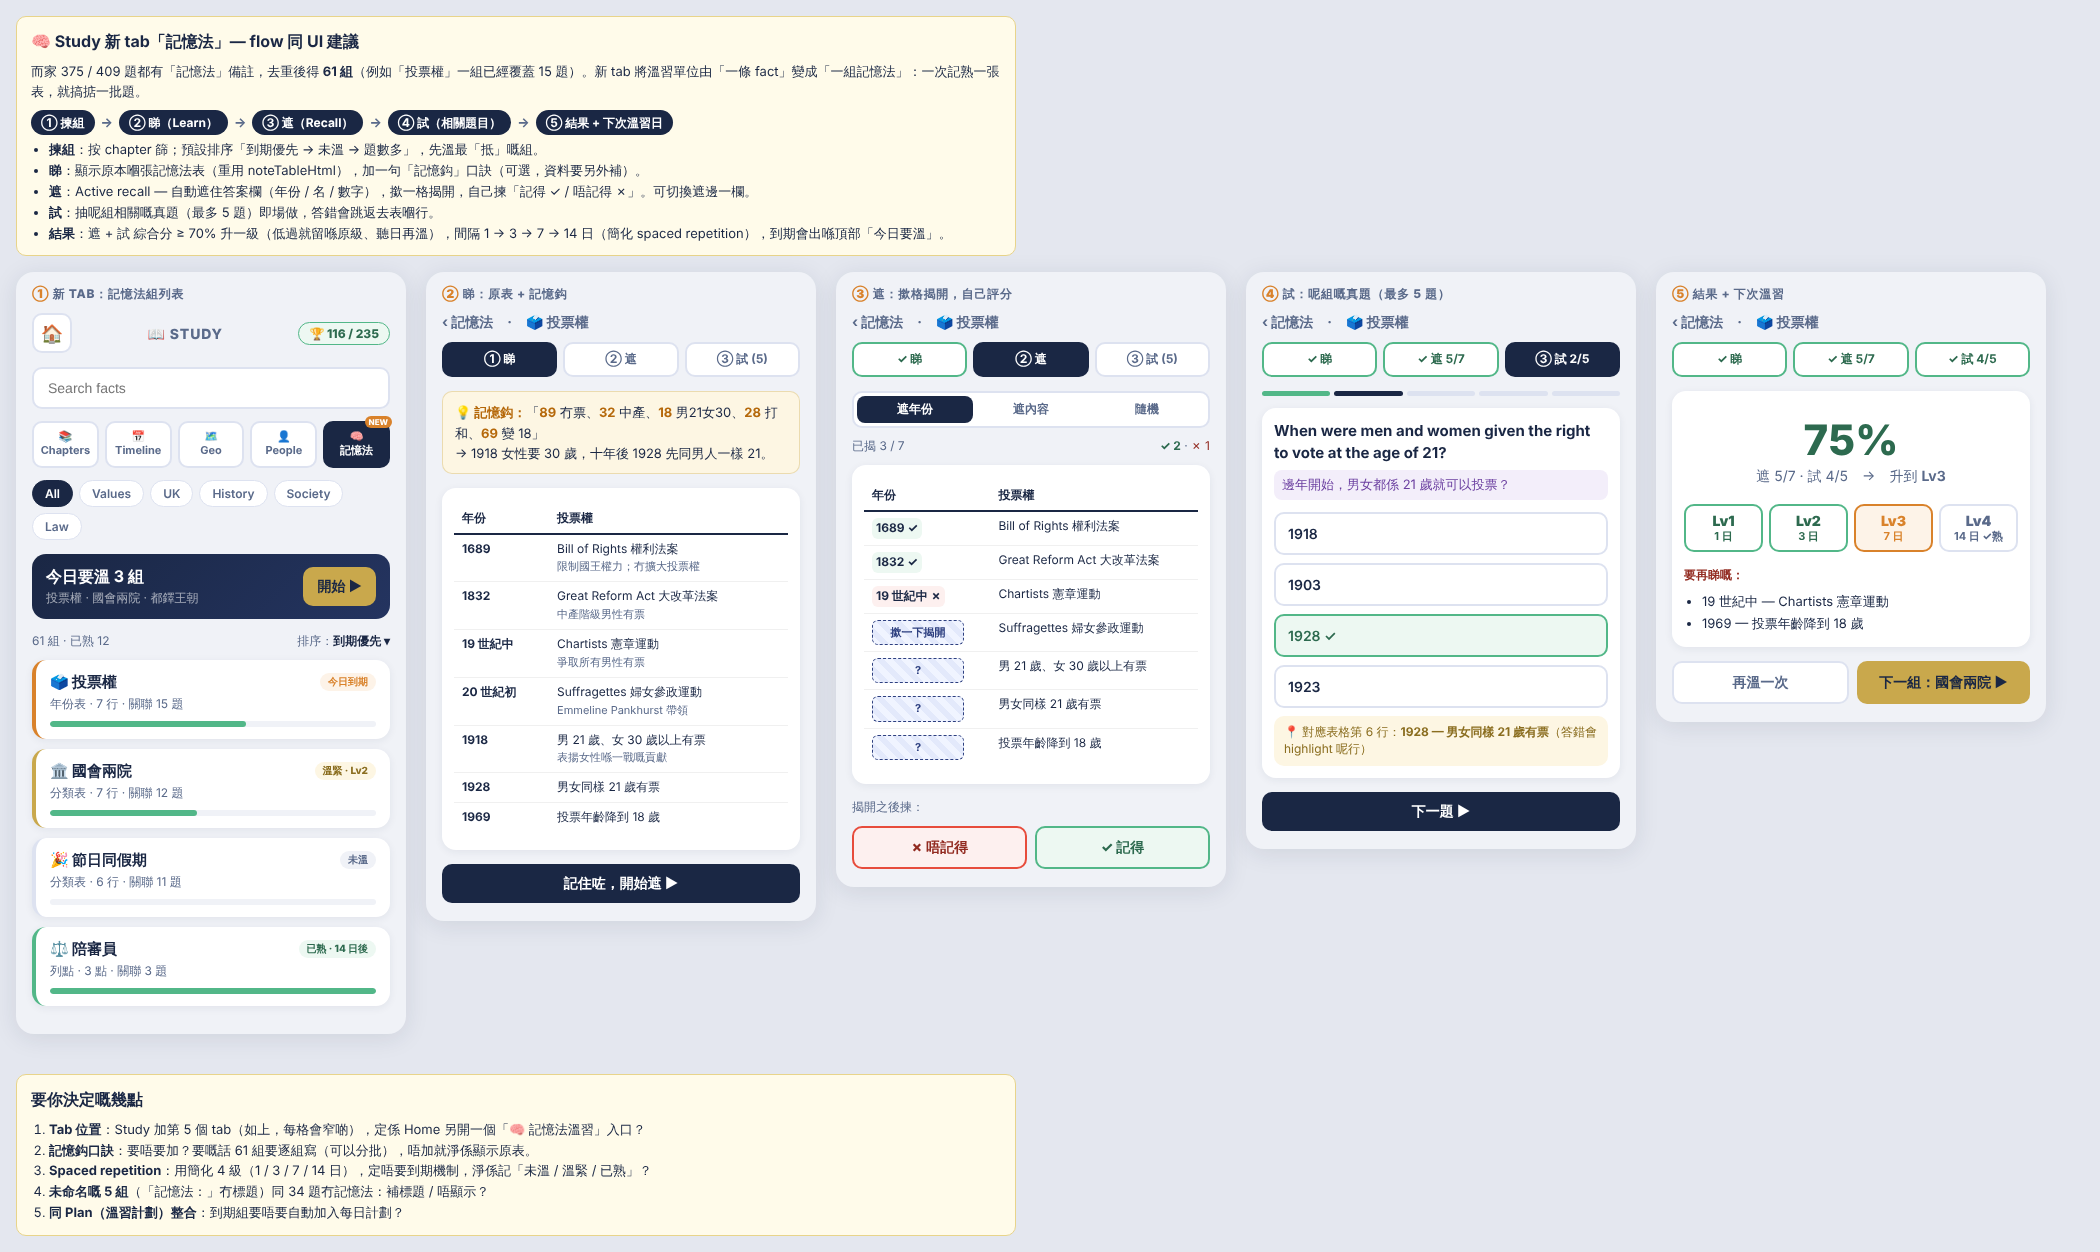
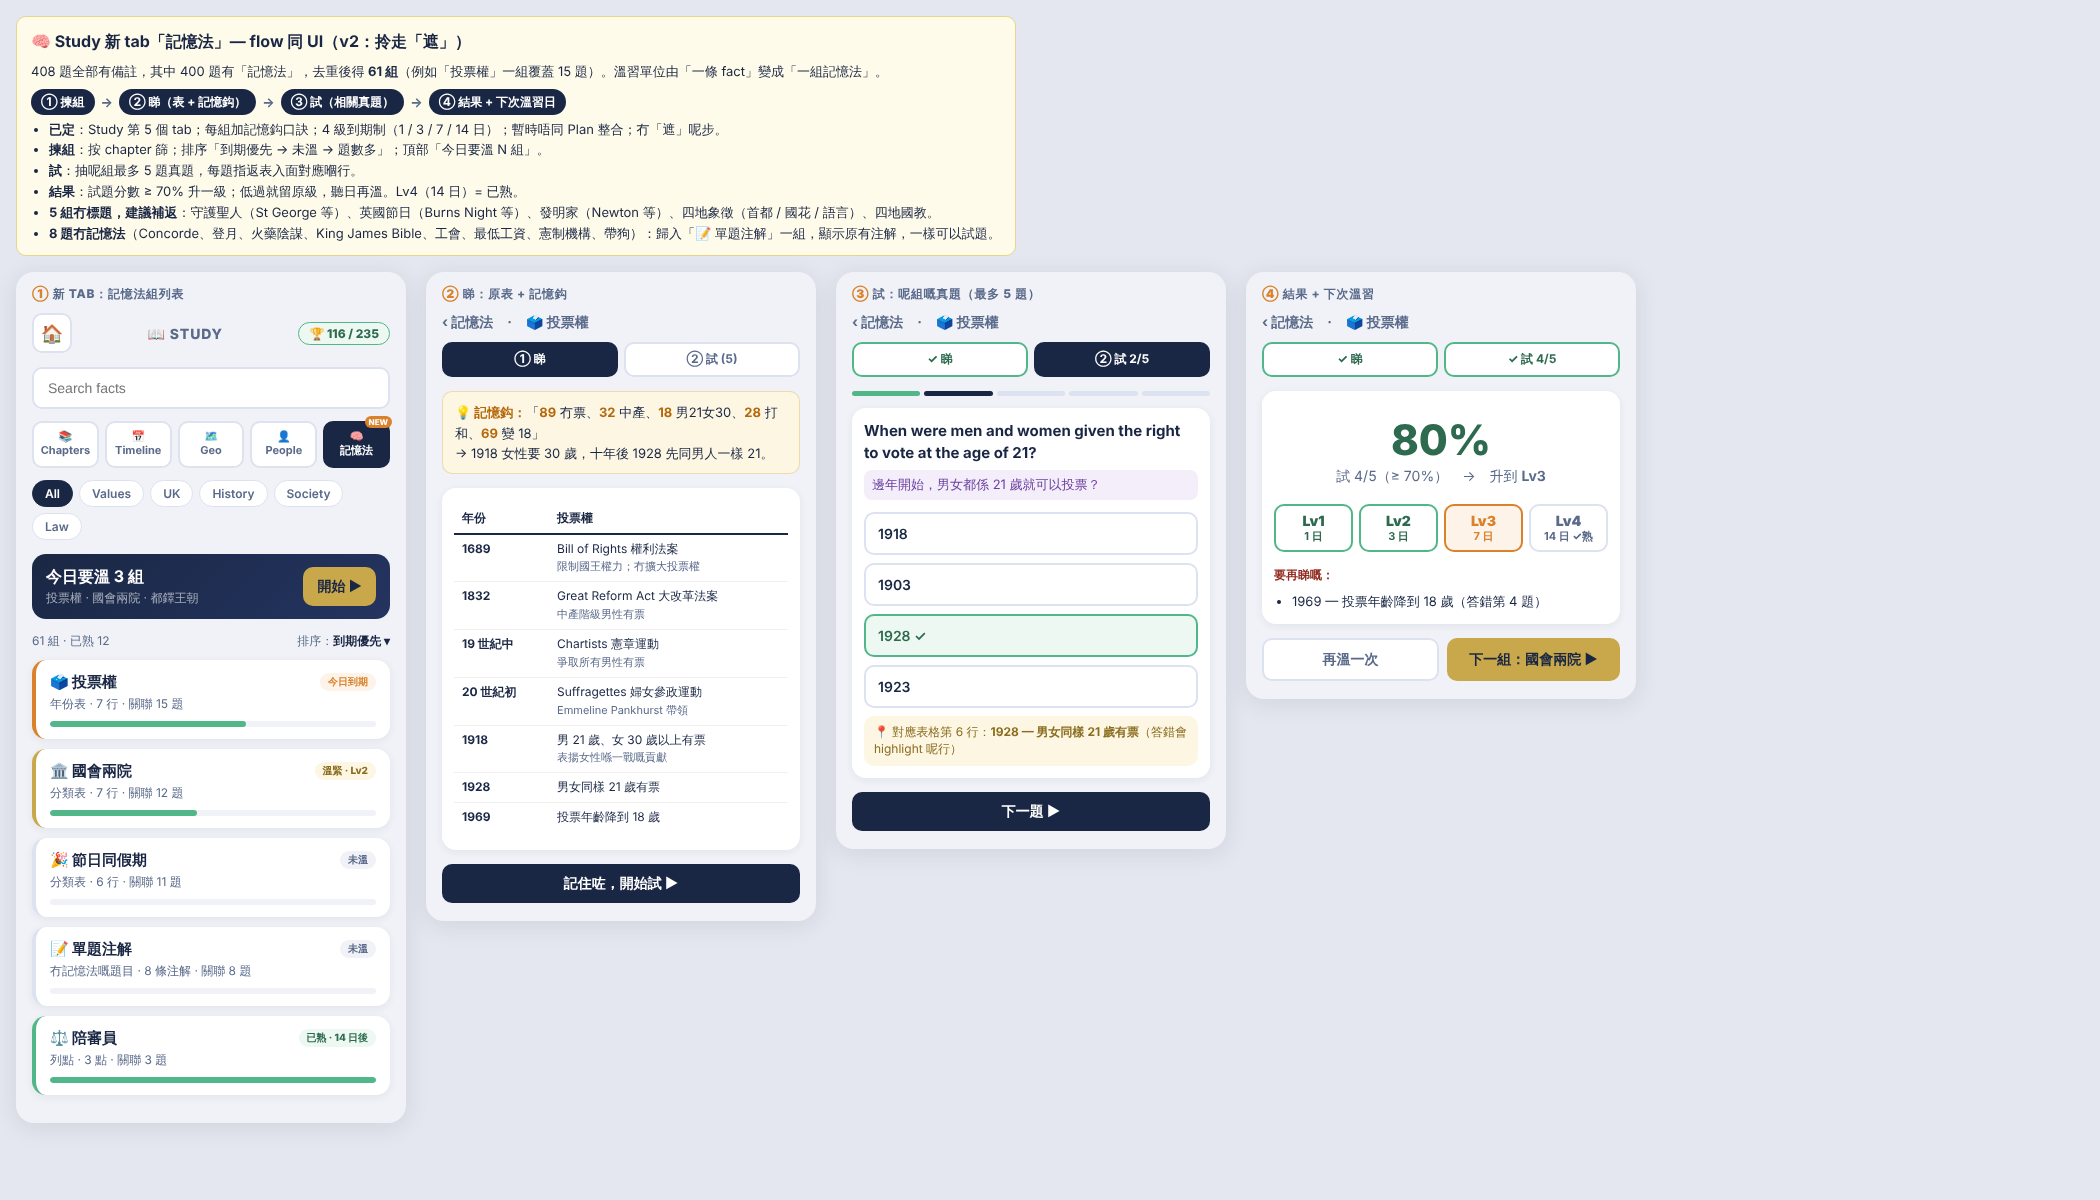
docs: memory study mockup v2 (drop recall step, apply decisions)
Claude-Session: https://claude.ai/code/session_014xLpA8rU1dnqgrrpkyMFYP

Changed region(s): [[0.0, 0.0, 0.9905, 0.9867]]

diff --git a/mockups/memo-study.html b/mockups/memo-study.html
@@ -62,7 +62,7 @@
 
   /* detail */
   .mk-back { font-size: var(--fs-md); font-weight: 700; color: var(--text-muted); margin-bottom: var(--space-5); }
-  .mk-steps { display: grid; grid-template-columns: repeat(3, 1fr); gap: var(--space-3); margin-bottom: var(--space-7); }
+  .mk-steps { display: grid; grid-template-columns: repeat(2, 1fr); gap: var(--space-3); margin-bottom: var(--space-7); }
   .mk-step { text-align: center; font-size: var(--fs-sm); font-weight: 700; color: var(--text-muted); background: var(--card); border: 2px solid var(--border); border-radius: var(--radius-md); padding: 7px 2px; }
   .mk-step.on { background: var(--navy); border-color: var(--navy); color: #fff; }
   .mk-step.ok { border-color: var(--green-light); color: var(--green); }
@@ -72,16 +72,6 @@
   .mk-hook b { color: var(--note-label); }
   .mk-actions { display: flex; gap: var(--space-4); }
   .mk-actions .mk-btn { flex: 1; }
-
-  /* recall: covered cells */
-  .cover { display: inline-block; min-width: 92px; background: repeating-linear-gradient(45deg, var(--selected-bg), var(--selected-bg) 6px, #e3e9fb 6px, #e3e9fb 12px); border: 1.5px dashed var(--navy-light); border-radius: var(--radius-xs); color: var(--navy-light); font-weight: 700; font-size: var(--fs-xs); padding: 4px 6px; text-align: center; }
-  .revealed { background: var(--success-bg); border-radius: var(--radius-xs); padding: 2px 4px; display: inline-block; }
-  .missed { background: var(--danger-bg); border-radius: var(--radius-xs); padding: 2px 4px; display: inline-block; }
-  .mk-seg { display: flex; background: var(--card); border: 2px solid var(--border); border-radius: var(--radius-md); padding: 3px; margin-bottom: var(--space-5); font-size: var(--fs-sm); font-weight: 700; }
-  .mk-seg span { flex: 1; text-align: center; padding: 5px; border-radius: var(--radius-sm); color: var(--text-muted); }
-  .mk-seg span.on { background: var(--navy); color: #fff; }
-  .mk-score { display: flex; justify-content: space-between; font-size: var(--fs-sm); color: var(--text-muted); margin-bottom: var(--space-5); }
-  .mk-score b { color: var(--green); }
 
   /* quiz */
   .mk-q { font-weight: 700; font-size: var(--fs-lg); line-height: 1.45; margin-bottom: var(--space-3); }
@@ -110,15 +100,16 @@
 <body>
 
 <div class="brief">
-  <h1>🧠 Study 新 tab「記憶法」— flow 同 UI 建議</h1>
-  而家 375 / 409 題都有「記憶法」備註，去重後得 <b>61 組</b>（例如「投票權」一組已經覆蓋 15 題）。新 tab 將溫習單位由「一條 fact」變成「一組記憶法」：一次記熟一張表，就搞掂一批題。
-  <div class="flow"><span>① 揀組</span><i>→</i><span>② 睇（Learn）</span><i>→</i><span>③ 遮（Recall）</span><i>→</i><span>④ 試（相關題目）</span><i>→</i><span>⑤ 結果 + 下次溫習日</span></div>
+  <h1>🧠 Study 新 tab「記憶法」— flow 同 UI（v2：拎走「遮」）</h1>
+  408 題全部有備註，其中 400 題有「記憶法」，去重後得 <b>61 組</b>（例如「投票權」一組覆蓋 15 題）。溫習單位由「一條 fact」變成「一組記憶法」。
+  <div class="flow"><span>① 揀組</span><i>→</i><span>② 睇（表 + 記憶鈎）</span><i>→</i><span>③ 試（相關真題）</span><i>→</i><span>④ 結果 + 下次溫習日</span></div>
   <ul>
-    <li><b>揀組</b>：按 chapter 篩；預設排序「到期優先 → 未溫 → 題數多」，先溫最「抵」嘅組。</li>
-    <li><b>睇</b>：顯示原本嗰張記憶法表（重用 noteTableHtml），加一句「記憶鈎」口訣（可選，資料要另外補）。</li>
-    <li><b>遮</b>：Active recall — 自動遮住答案欄（年份 / 名 / 數字），撳一格揭開，自己揀「記得 ✓ / 唔記得 ✗」。可切換遮邊一欄。</li>
-    <li><b>試</b>：抽呢組相關嘅真題（最多 5 題）即場做，答錯會跳返去表嗰行。</li>
-    <li><b>結果</b>：遮 + 試 綜合分 ≥ 70% 升一級（低過就留喺原級、聽日再溫），間隔 1 → 3 → 7 → 14 日（簡化 spaced repetition），到期會出喺頂部「今日要溫」。</li>
+    <li><b>已定</b>：Study 第 5 個 tab；每組加記憶鈎口訣；4 級到期制（1 / 3 / 7 / 14 日）；暫時唔同 Plan 整合；冇「遮」呢步。</li>
+    <li><b>揀組</b>：按 chapter 篩；排序「到期優先 → 未溫 → 題數多」；頂部「今日要溫 N 組」。</li>
+    <li><b>試</b>：抽呢組最多 5 題真題，每題指返表入面對應嗰行。</li>
+    <li><b>結果</b>：試題分數 ≥ 70% 升一級；低過就留原級，聽日再溫。Lv4（14 日）= 已熟。</li>
+    <li><b>5 組冇標題，建議補返</b>：守護聖人（St George 等）、英國節日（Burns Night 等）、發明家（Newton 等）、四地象徵（首都 / 國花 / 語言）、四地國教。</li>
+    <li><b>8 題冇記憶法</b>（Concorde、登月、火藥陰謀、King James Bible、工會、最低工資、憲制機構、帶狗）：歸入「📝 單題注解」一組，顯示原有注解，一樣可以試題。</li>
   </ul>
 </div>
 
@@ -160,6 +151,11 @@
       <div class="mk-meta">分類表 · 6 行 · 關聯 11 題</div>
       <div class="mk-bar"><i style="width:0"></i></div>
     </div>
+    <div class="mk-card new">
+      <div class="mk-row"><div class="mk-name">📝 單題注解</div><span class="mk-badge new">未溫</span></div>
+      <div class="mk-meta">冇記憶法嘅題目 · 8 條注解 · 關聯 8 題</div>
+      <div class="mk-bar"><i style="width:0"></i></div>
+    </div>
     <div class="mk-card done">
       <div class="mk-row"><div class="mk-name">⚖ 陪審員</div><span class="mk-badge done">已熟 · 14 日後</span></div>
       <div class="mk-meta">列點 · 3 點 · 關聯 3 題</div>
@@ -171,7 +167,7 @@
   <div class="phone">
     <p class="cap"><b>②</b> 睇：原表 + 記憶鈎</p>
     <div class="mk-back">‹ 記憶法　·　🗳 投票權</div>
-    <div class="mk-steps"><div class="mk-step on">① 睇</div><div class="mk-step">② 遮</div><div class="mk-step">③ 試 (5)</div></div>
+    <div class="mk-steps"><div class="mk-step on">① 睇</div><div class="mk-step">② 試 (5)</div></div>
     <div class="mk-hook"><b>💡 記憶鈎：</b>「<b>89</b> 冇票、<b>32</b> 中產、<b>18</b> 男21女30、<b>28</b> 打和、<b>69</b> 變 18」<br>→ 1918 女性要 30 歲，十年後 1928 先同男人一樣 21。</div>
     <div class="mk-panel">
       <div class="note-table-wrap"><table class="note-table">
@@ -185,37 +181,14 @@
         <tr><td>1969</td><td class="multi">投票年齡降到 18 歲</td></tr>
       </table></div>
     </div>
-    <button class="mk-btn navy">記住咗，開始遮 ▶</button>
-  </div>
-
-  <!-- ③ RECALL -->
-  <div class="phone">
-    <p class="cap"><b>③</b> 遮：撳格揭開，自己評分</p>
-    <div class="mk-back">‹ 記憶法　·　🗳 投票權</div>
-    <div class="mk-steps"><div class="mk-step ok">✓ 睇</div><div class="mk-step on">② 遮</div><div class="mk-step">③ 試 (5)</div></div>
-    <div class="mk-seg"><span class="on">遮年份</span><span>遮內容</span><span>隨機</span></div>
-    <div class="mk-score"><span>已揭 3 / 7</span><span><b>✓ 2</b> · <span style="color:var(--red)">✗ 1</span></span></div>
-    <div class="mk-panel">
-      <div class="note-table-wrap"><table class="note-table">
-        <tr><th>年份</th><th class="multi">投票權</th></tr>
-        <tr><td><span class="revealed">1689 ✓</span></td><td class="multi">Bill of Rights 權利法案</td></tr>
-        <tr><td><span class="revealed">1832 ✓</span></td><td class="multi">Great Reform Act 大改革法案</td></tr>
-        <tr><td><span class="missed">19 世紀中 ✗</span></td><td class="multi">Chartists 憲章運動</td></tr>
-        <tr><td><span class="cover">撳一下揭開</span></td><td class="multi">Suffragettes 婦女參政運動</td></tr>
-        <tr><td><span class="cover">?</span></td><td class="multi">男 21 歲、女 30 歲以上有票</td></tr>
-        <tr><td><span class="cover">?</span></td><td class="multi">男女同樣 21 歲有票</td></tr>
-        <tr><td><span class="cover">?</span></td><td class="multi">投票年齡降到 18 歲</td></tr>
-      </table></div>
-    </div>
-    <p class="mk-hint">揭開之後揀：</p>
-    <div class="mk-actions"><button class="mk-btn red">✗ 唔記得</button><button class="mk-btn green">✓ 記得</button></div>
+    <button class="mk-btn navy">記住咗，開始試 ▶</button>
   </div>
 
   <!-- ④ QUIZ -->
   <div class="phone">
-    <p class="cap"><b>④</b> 試：呢組嘅真題（最多 5 題）</p>
+    <p class="cap"><b>③</b> 試：呢組嘅真題（最多 5 題）</p>
     <div class="mk-back">‹ 記憶法　·　🗳 投票權</div>
-    <div class="mk-steps"><div class="mk-step ok">✓ 睇</div><div class="mk-step ok">✓ 遮 5/7</div><div class="mk-step on">③ 試 2/5</div></div>
+    <div class="mk-steps"><div class="mk-step ok">✓ 睇</div><div class="mk-step on">② 試 2/5</div></div>
     <div class="mk-dots"><i class="ok"></i><i class="cur"></i><i></i><i></i><i></i></div>
     <div class="mk-panel">
       <div class="mk-q">When were men and women given the right to vote at the age of 21?</div>
@@ -231,34 +204,22 @@
 
   <!-- ⑤ RESULT -->
   <div class="phone">
-    <p class="cap"><b>⑤</b> 結果 + 下次溫習</p>
+    <p class="cap"><b>④</b> 結果 + 下次溫習</p>
     <div class="mk-back">‹ 記憶法　·　🗳 投票權</div>
-    <div class="mk-steps"><div class="mk-step ok">✓ 睇</div><div class="mk-step ok">✓ 遮 5/7</div><div class="mk-step ok">✓ 試 4/5</div></div>
+    <div class="mk-steps"><div class="mk-step ok">✓ 睇</div><div class="mk-step ok">✓ 試 4/5</div></div>
     <div class="mk-panel">
-      <div class="mk-big"><div class="n">75%</div><div class="t">遮 5/7 · 試 4/5　→　升到 <b>Lv3</b></div></div>
+      <div class="mk-big"><div class="n">80%</div><div class="t">試 4/5（≥ 70%）　→　升到 <b>Lv3</b></div></div>
       <div class="mk-sched">
         <div class="past"><b>Lv1</b>1 日</div><div class="past"><b>Lv2</b>3 日</div><div class="next"><b>Lv3</b>7 日</div><div><b>Lv4</b>14 日 ✓熟</div>
       </div>
       <p class="mk-hint" style="margin-bottom:6px"><b style="color:var(--red)">要再睇嘅：</b></p>
       <ul class="mk-list">
-        <li>19 世紀中 — Chartists 憲章運動</li>
-        <li>1969 — 投票年齡降到 18 歲</li>
+        <li>1969 — 投票年齡降到 18 歲（答錯第 4 題）</li>
       </ul>
     </div>
     <div class="mk-actions"><button class="mk-btn ghost">再溫一次</button><button class="mk-btn gold">下一組：國會兩院 ▶</button></div>
   </div>
 
-</div>
-
-<div class="brief">
-  <h1>要你決定嘅幾點</h1>
-  <ol>
-    <li><b>Tab 位置</b>：Study 加第 5 個 tab（如上，每格會窄啲），定係 Home 另開一個「🧠 記憶法溫習」入口？</li>
-    <li><b>記憶鈎口訣</b>：要唔要加？要嘅話 61 組要逐組寫（可以分批），唔加就淨係顯示原表。</li>
-    <li><b>Spaced repetition</b>：用簡化 4 級（1 / 3 / 7 / 14 日），定唔要到期機制，淨係記「未溫 / 溫緊 / 已熟」？</li>
-    <li><b>未命名嘅 5 組</b>（「記憶法：」冇標題）同 34 題冇記憶法：補標題 / 唔顯示？</li>
-    <li><b>同 Plan（溫習計劃）整合</b>：到期組要唔要自動加入每日計劃？</li>
-  </ol>
 </div>
 
 </body>
